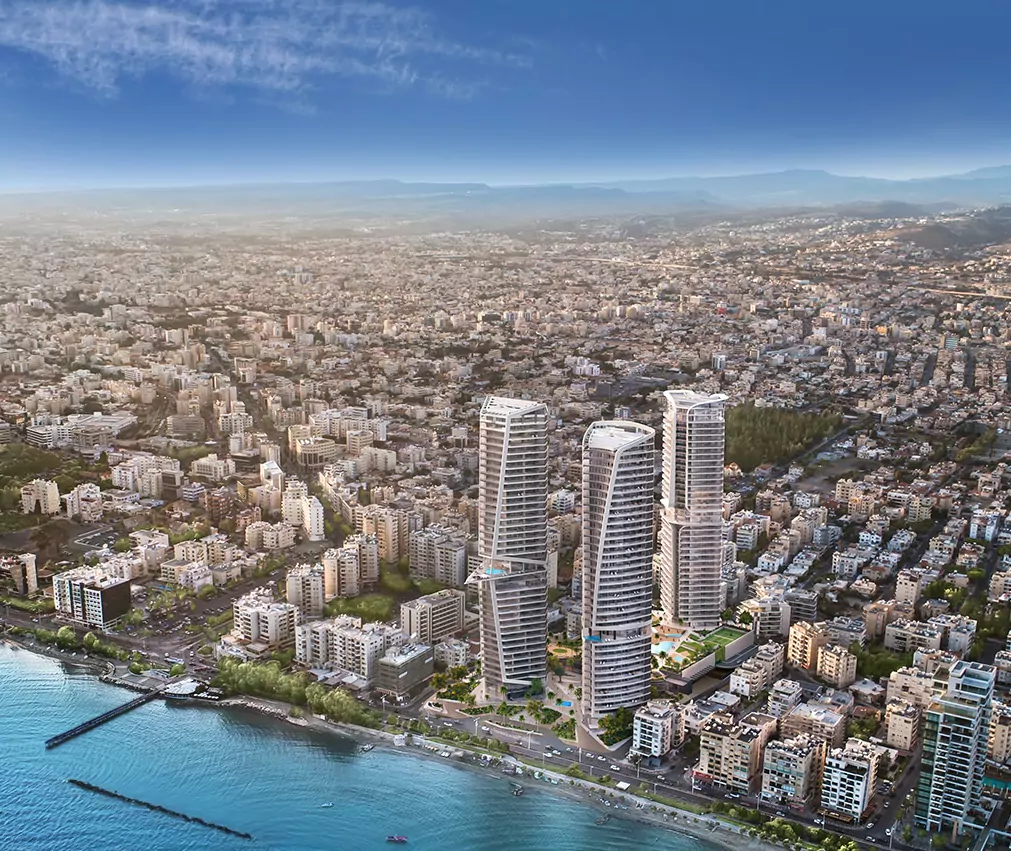
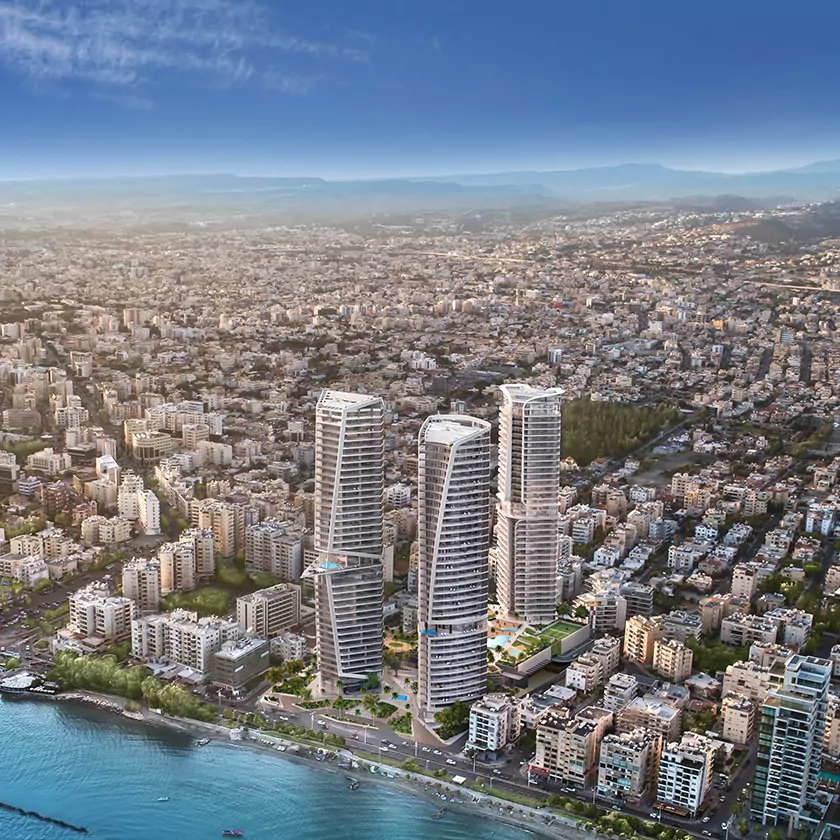
images compr

diff --git a/index.html b/index.html
@@ -147,7 +147,7 @@
         </div>
       </div>
       
-      <div class="carousel-item" style="background-image: url(assets/img/gallery/Slider3.jpg)">
+      <div class="carousel-item" style="background-image: url(assets/img/gallery/Slider3.webp)">
         <div class="carousel-caption d-none d-md-block">
           <p class="lead display-4 cssanimation sequence fadeInRight w3-animate-zoom" style="font-weight:100px;font-family: serif;"><b>Come Home With Updrading Status</b></p>
         </div>
